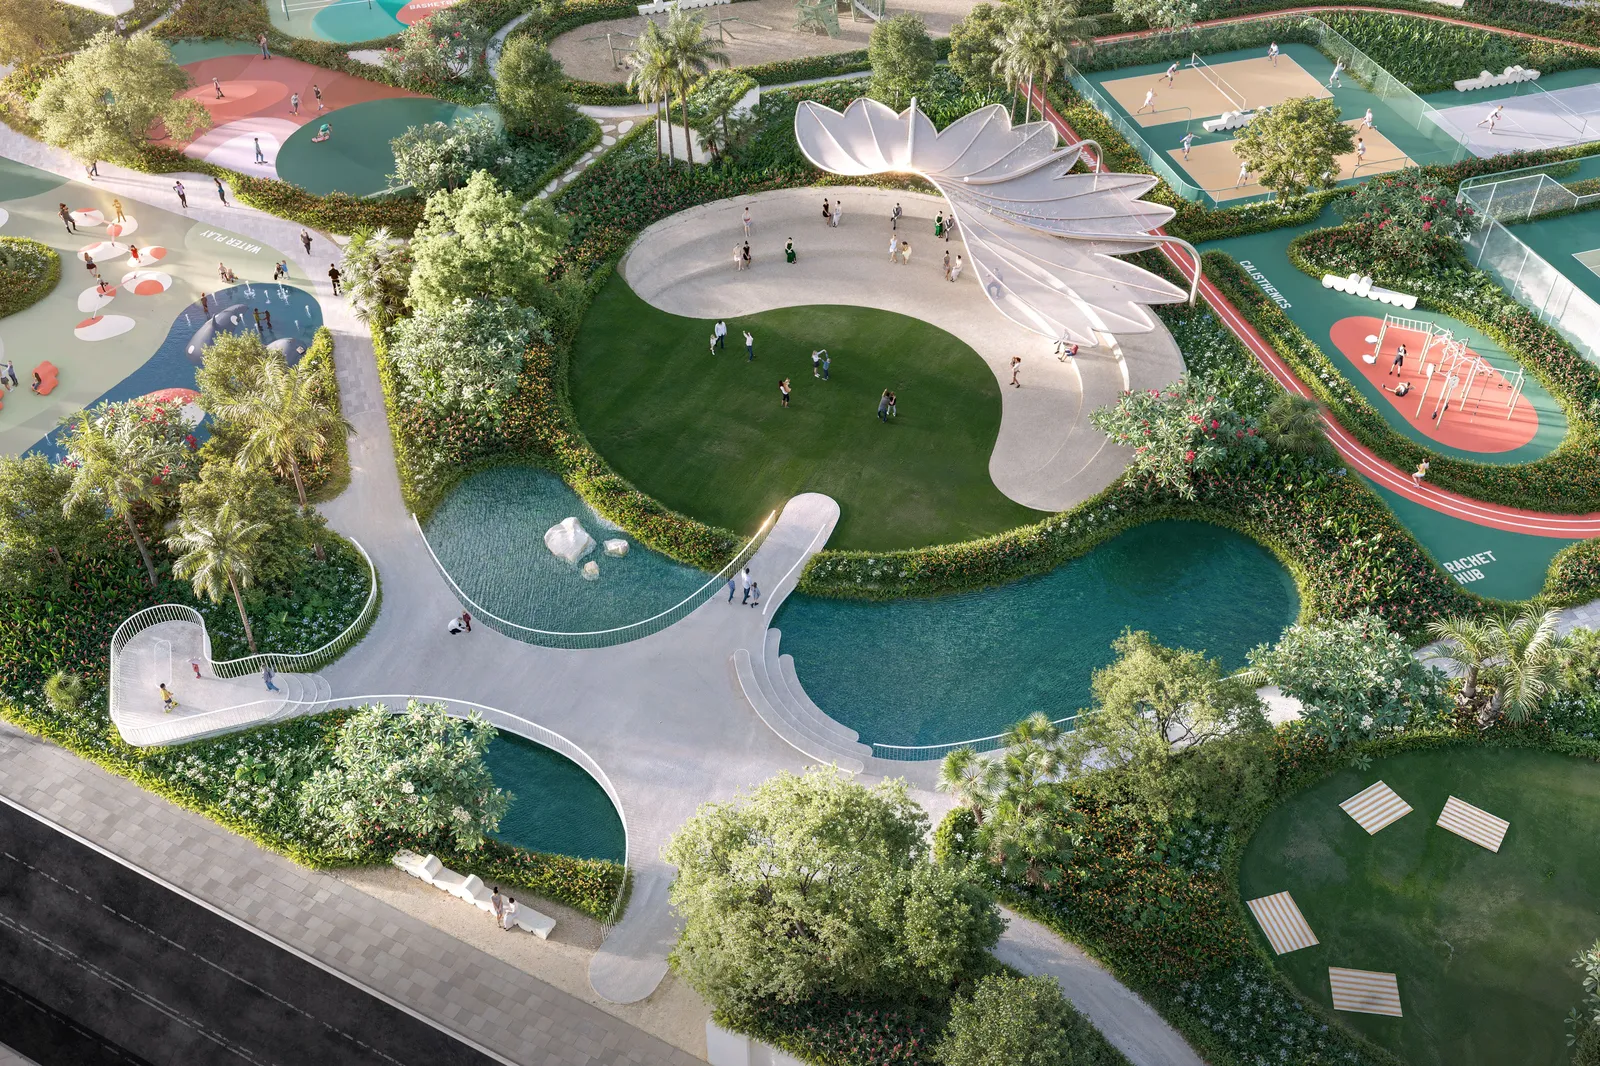
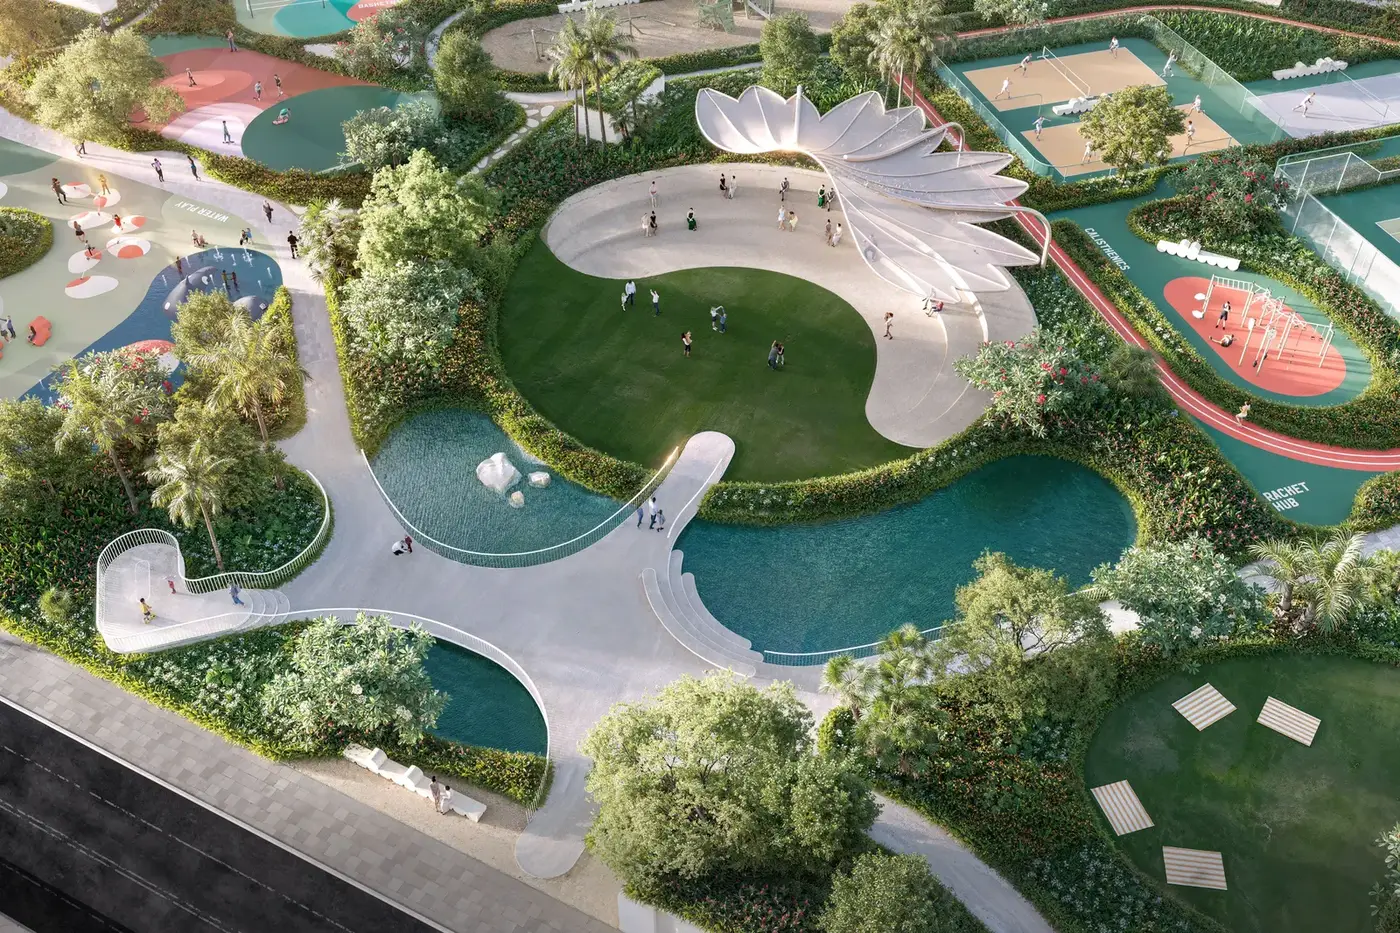
HSG: thêm nội thất căn 2PN/4PN, tổng mặt bằng toàn dự án, phối cảnh và tiện ích từ website chính thức
Claude-Session: https://claude.ai/code/session_01N15spo93cD7FzRZG3Wy1ur

diff --git a/lumiere-hanoi-seasons-garden/index.html b/lumiere-hanoi-seasons-garden/index.html
@@ -629,7 +629,7 @@ body { -webkit-font-smoothing: antialiased; -moz-osx-font-smoothing: grayscale; 
 <nav class="topnav" aria-label="Mục lục">
   <div class="navin">
     <a class="brand" href="/">Nguyễn Quân BĐS<small>LUMIÈRE Hanoi Seasons Garden</small></a>
-    <div class="links"><a href="#tong-quan">Tổng quan</a><a href="#vi-tri">Vị trí</a><a href="#can-ho">Căn hộ</a><a href="#layout">Layout</a><a href="#ban-giao">Bàn giao</a><a href="#chinh-sach">Chính sách</a><a href="#tien-ich">Tiện ích</a><a href="#tour-360">Tour 360°</a><a href="#lien-he">Liên hệ</a><a class="other" href="/">Dự án khác</a></div>
+    <div class="links"><a href="#tong-quan">Tổng quan</a><a href="#vi-tri">Vị trí</a><a href="#can-ho">Căn hộ</a><a href="#layout">Layout</a><a href="#noi-that">Nội thất</a><a href="#ban-giao">Bàn giao</a><a href="#chinh-sach">Chính sách</a><a href="#tien-ich">Tiện ích</a><a href="#tour-360">Tour 360°</a><a href="#lien-he">Liên hệ</a><a class="other" href="/">Dự án khác</a></div>
     <a class="navcall" href="tel:0929599292">0929 599 292</a>
   </div>
 </nav>
@@ -678,6 +678,16 @@ body { -webkit-font-smoothing: antialiased; -moz-osx-font-smoothing: grayscale; 
     <div class="gal"><figure><img class="zoomable" src="3d-2pn.webp" alt="2 PN loại 2 · tòa L1 · CH.02 · TT 76,2–77,0 m² · tim 82,4–83,3 m²" loading="lazy"><figcaption>2 PN loại 2 · tòa L1 · CH.02 · TT 76,2–77,0 m² · tim 82,4–83,3 m²</figcaption></figure><figure><img class="zoomable" src="3d-1pn1.webp" alt="1 PN + 1 loại 7 · tòa L1 · CH.12A, 15, 16 · TT 84,3–85,5 m² · tim 94,0 m²" loading="lazy"><figcaption>1 PN + 1 loại 7 · tòa L1 · CH.12A, 15, 16 · TT 84,3–85,5 m² · tim 94,0 m²</figcaption></figure><figure><img class="zoomable" src="3d-2pn1-l2.webp" alt="2 PN + 1 loại 2 · tòa L1 · CH.08A · TT 113,3–115,4 m² · tim 125,4 m²" loading="lazy"><figcaption>2 PN + 1 loại 2 · tòa L1 · CH.08A · TT 113,3–115,4 m² · tim 125,4 m²</figcaption></figure><figure><img class="zoomable" src="3d-2pn1-l3.webp" alt="2 PN + 1 loại 3 · tòa L1 · CH.16, 18A · TT 119,5–120,5 m² · tim 131,3 m²" loading="lazy"><figcaption>2 PN + 1 loại 3 · tòa L1 · CH.16, 18A · TT 119,5–120,5 m² · tim 131,3 m²</figcaption></figure><figure><img class="zoomable" src="3d-3pn1-l2.webp" alt="3 PN + 1 loại 2 · tòa L1 · CH.06 · TT 130,6–132,7 m² · tim 143,1 m²" loading="lazy"><figcaption>3 PN + 1 loại 2 · tòa L1 · CH.06 · TT 130,6–132,7 m² · tim 143,1 m²</figcaption></figure><figure><img class="zoomable" src="3d-3pn1-l3.webp" alt="3 PN + 1 loại 3 · tòa L1 · CH.15, 18A, 18 · TT 136,8–138,3 m² · tim 150,2 m²" loading="lazy"><figcaption>3 PN + 1 loại 3 · tòa L1 · CH.15, 18A, 18 · TT 136,8–138,3 m² · tim 150,2 m²</figcaption></figure><figure class="full"><img class="zoomable" src="mb-tang-l1.webp" alt="Mặt bằng tầng 5 tòa L1 (25 căn)" loading="lazy"><figcaption>Mặt bằng tầng 5 tòa L1 (25 căn)</figcaption></figure><figure class="full"><img class="zoomable" src="mb-tang-l2.webp" alt="Mặt bằng tầng 4 tòa L2 (30 căn)" loading="lazy"><figcaption>Mặt bằng tầng 4 tòa L2 (30 căn)</figcaption></figure></div><p class="note">TT: thông thủy, tim: tim tường. Ảnh nội thất mang tính minh họa.</p>
   </div>
 </section>
+<section id="noi-that">
+  <div class="wrap">
+    <div class="head"><div class="eyebrow">Nội thất</div><h2>Nội thất căn hộ mẫu</h2><p class="lead">Phối cảnh nội thất do chủ đầu tư công bố, bấm vào ảnh để phóng to.</p></div>
+    <h3 style="margin:1.6rem 0 .8rem">Căn 2 phòng ngủ</h3>
+    <div class="gal"><figure><img class="zoomable" src="img/nt-2pn-khach-bep.webp" alt="Căn 2PN · phòng khách, bếp và bàn ăn" loading="lazy"><figcaption>Căn 2PN · phòng khách, bếp và bàn ăn</figcaption></figure><figure><img class="zoomable" src="img/nt-2pn-ngu-master.webp" alt="Căn 2PN · phòng ngủ master" loading="lazy"><figcaption>Căn 2PN · phòng ngủ master</figcaption></figure></div>
+    <h3 style="margin:1.6rem 0 .8rem">Căn 4 phòng ngủ</h3>
+    <div class="gal"><figure><img class="zoomable" src="img/nt-4pn-khach.webp" alt="Căn 4PN · phòng khách và bếp" loading="lazy"><figcaption>Căn 4PN · phòng khách và bếp</figcaption></figure><figure><img class="zoomable" src="img/nt-4pn-ngu.webp" alt="Căn 4PN · phòng ngủ góc kính" loading="lazy"><figcaption>Căn 4PN · phòng ngủ góc kính</figcaption></figure><figure><img class="zoomable" src="img/nt-4pn-da-nang.webp" alt="Căn 4PN · phòng đa năng" loading="lazy"><figcaption>Căn 4PN · phòng đa năng</figcaption></figure><figure><img class="zoomable" src="img/nt-phong-hoc.webp" alt="Phòng học, phòng làm việc" loading="lazy"><figcaption>Phòng học, phòng làm việc</figcaption></figure></div>
+    <p class="note">Ảnh phối cảnh minh họa từ website chính thức Masterise Homes. Đồ rời và trang trí trong ảnh là gợi ý, không thuộc danh mục bàn giao.</p>
+  </div>
+</section>
 <section id="ban-giao">
   <div class="wrap">
     <div class="head"><div class="eyebrow">Tiêu chuẩn bàn giao</div><h2>Bàn giao theo chuẩn LUMIÈRE series</h2></div>
@@ -694,6 +704,18 @@ body { -webkit-font-smoothing: antialiased; -moz-osx-font-smoothing: grayscale; 
   <div class="wrap">
     <div class="head"><div class="eyebrow">Tiện ích</div><h2>25 tiện ích ngoài trời, 8 tiện ích trong nhà và Clubhouse riêng</h2><p class="lead">Clubhouse 4 tầng do Masterise Hospitality &amp; Entertainment vận hành: bể bơi bốn mùa, Jacuzzi, gym, yoga, Kids Club, Business Lounge, golf 3D và Rooftop Bar.</p></div>
     <div class="gal"><figure class="full"><img class="zoomable" src="tmb-tien-ich.webp" alt="Mặt bằng tiện ích phân khu: quảng trường sự kiện, khán đài, skating, vườn đọc sách, vườn tĩnh tâm, gym ngoài trời…" loading="lazy"><figcaption>Mặt bằng tiện ích phân khu: quảng trường sự kiện, khán đài, skating, vườn đọc sách, vườn tĩnh tâm, gym ngoài trời…</figcaption></figure><figure><img class="zoomable" src="clubhouse.webp" alt="Clubhouse do Masterise Hospitality &amp; Entertainment vận hành" loading="lazy"><figcaption>Clubhouse do Masterise Hospitality &amp; Entertainment vận hành</figcaption></figure><figure><img class="zoomable" src="be-boi-clubhouse.webp" alt="Bể bơi bốn mùa trong Clubhouse" loading="lazy"><figcaption>Bể bơi bốn mùa trong Clubhouse</figcaption></figure><figure><img class="zoomable" src="rooftop-bar.webp" alt="Rooftop Bar tại Clubhouse" loading="lazy"><figcaption>Rooftop Bar tại Clubhouse</figcaption></figure><figure><img class="zoomable" src="sanh-le-tan.webp" alt="Sảnh lễ tân thông tầng" loading="lazy"><figcaption>Sảnh lễ tân thông tầng</figcaption></figure><figure class="full"><img class="zoomable" src="business-lounge.webp" alt="Business Lounge trong tòa" loading="lazy"><figcaption>Business Lounge trong tòa</figcaption></figure></div><p class="note">Ảnh phối cảnh của chủ đầu tư, mang tính minh họa. Bấm vào ảnh để phóng to.</p>
+  </div>
+</section>
+<section id="thu-vien-anh">
+  <div class="wrap">
+    <div class="head"><div class="eyebrow">Thư viện ảnh</div><h2>Tổng mặt bằng, phối cảnh và tiện ích</h2><p class="lead">Ảnh bổ sung từ website chính thức của Hanoi Seasons Garden.</p></div>
+    <h3 style="margin:1.6rem 0 .8rem">Tổng mặt bằng toàn dự án</h3>
+    <div class="gal"><figure class="full"><img class="zoomable" src="img/tmb-phan-khu.webp" alt="Tổng mặt bằng Hanoi Seasons Garden: các phân khu quanh trục cảnh quan trung tâm" loading="lazy"><figcaption>Tổng mặt bằng Hanoi Seasons Garden: các phân khu quanh trục cảnh quan trung tâm</figcaption></figure></div>
+    <h3 style="margin:1.6rem 0 .8rem">Phối cảnh</h3>
+    <div class="gal"><figure><img class="zoomable" src="img/pc-toa-thap.webp" alt="Hai tòa tháp bên trục Nguyễn Trãi" loading="lazy"><figcaption>Hai tòa tháp bên trục Nguyễn Trãi</figcaption></figure><figure><img class="zoomable" src="img/pc-tren-cao.webp" alt="Dự án nhìn từ trên cao, cạnh tuyến metro" loading="lazy"><figcaption>Dự án nhìn từ trên cao, cạnh tuyến metro</figcaption></figure><figure><img class="zoomable" src="img/pc-ga-metro.webp" alt="Dự án và tuyến metro trên cao" loading="lazy"><figcaption>Dự án và tuyến metro trên cao</figcaption></figure><figure><img class="zoomable" src="img/pc-mai-vom.webp" alt="Tiện ích mái vòm và tòa tháp" loading="lazy"><figcaption>Tiện ích mái vòm và tòa tháp</figcaption></figure><figure><img class="zoomable" src="img/pc-noi-khu.webp" alt="Cảnh quan nội khu giữa các tòa" loading="lazy"><figcaption>Cảnh quan nội khu giữa các tòa</figcaption></figure><figure><img class="zoomable" src="img/pc-cong-vien.webp" alt="Công viên nội khu" loading="lazy"><figcaption>Công viên nội khu</figcaption></figure></div>
+    <h3 style="margin:1.6rem 0 .8rem">Tiện ích</h3>
+    <div class="gal"><figure><img class="zoomable" src="img/ti-be-boi.webp" alt="Bể bơi bốn mùa" loading="lazy"><figcaption>Bể bơi bốn mùa</figcaption></figure><figure><img class="zoomable" src="img/ti-be-boi-ham.webp" alt="Bể bơi dưới mái vòm" loading="lazy"><figcaption>Bể bơi dưới mái vòm</figcaption></figure><figure><img class="zoomable" src="img/ti-sanh.webp" alt="Sảnh đón tiếp" loading="lazy"><figcaption>Sảnh đón tiếp</figcaption></figure><figure><img class="zoomable" src="img/ti-sanh-thang.webp" alt="Sảnh thang máy" loading="lazy"><figcaption>Sảnh thang máy</figcaption></figure><figure><img class="zoomable" src="img/ti-business.webp" alt="Business Lounge" loading="lazy"><figcaption>Business Lounge</figcaption></figure><figure><img class="zoomable" src="img/ti-thu-vien.webp" alt="Thư viện" loading="lazy"><figcaption>Thư viện</figcaption></figure><figure><img class="zoomable" src="img/ti-gym.webp" alt="Phòng gym" loading="lazy"><figcaption>Phòng gym</figcaption></figure><figure><img class="zoomable" src="img/ti-kids.webp" alt="Phòng vui chơi trẻ em" loading="lazy"><figcaption>Phòng vui chơi trẻ em</figcaption></figure><figure><img class="zoomable" src="img/ti-cong-vien.webp" alt="Công viên cảnh quan" loading="lazy"><figcaption>Công viên cảnh quan</figcaption></figure><figure><img class="zoomable" src="img/ti-loi-vao.webp" alt="Lối vào và sân chơi dưới chân tòa" loading="lazy"><figcaption>Lối vào và sân chơi dưới chân tòa</figcaption></figure></div>
+    <p class="note">Ảnh phối cảnh minh họa · Masterise Homes. Hình ảnh thực tế có thể thay đổi theo thiết kế được duyệt.</p>
   </div>
 </section>
 <section class="alt" id="tour-360">
